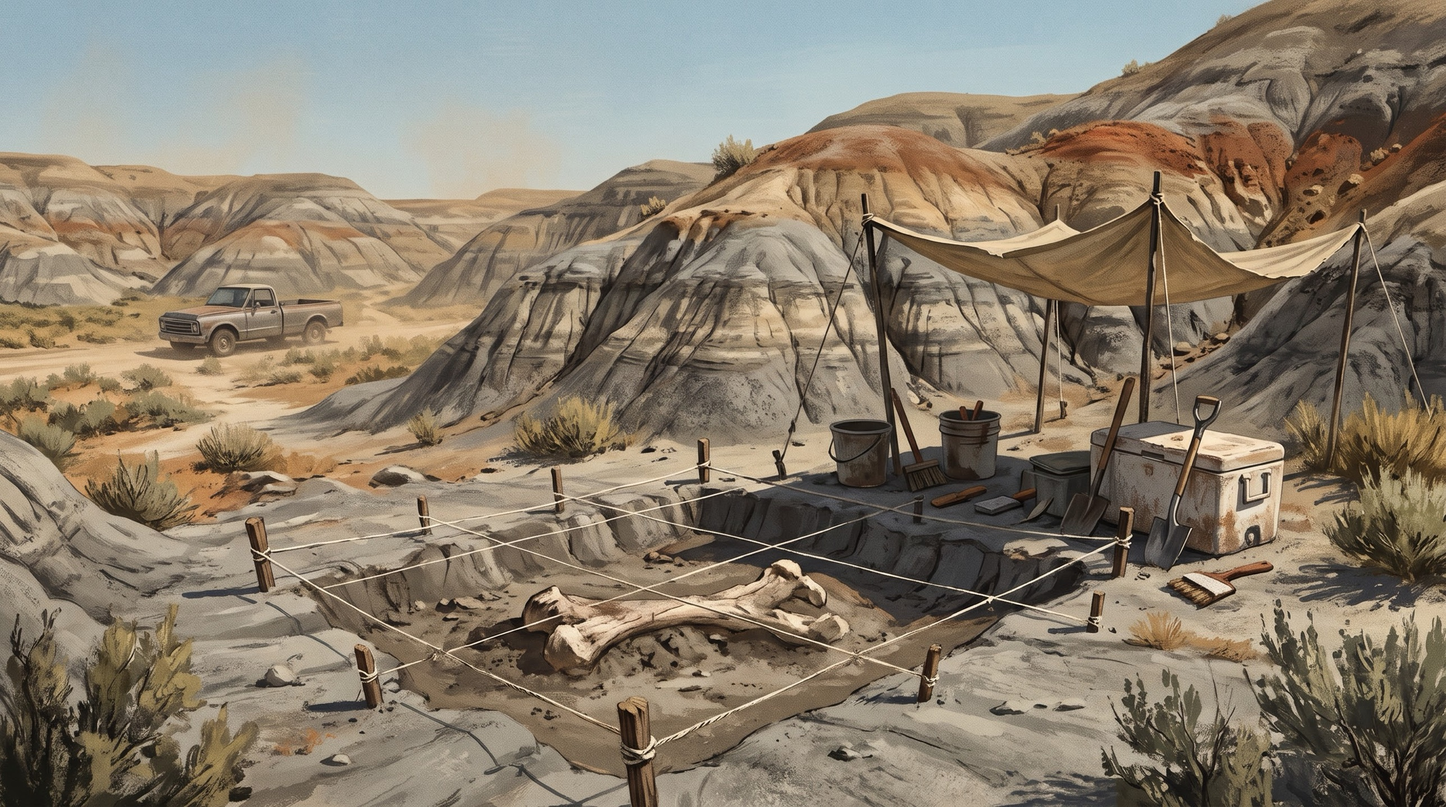
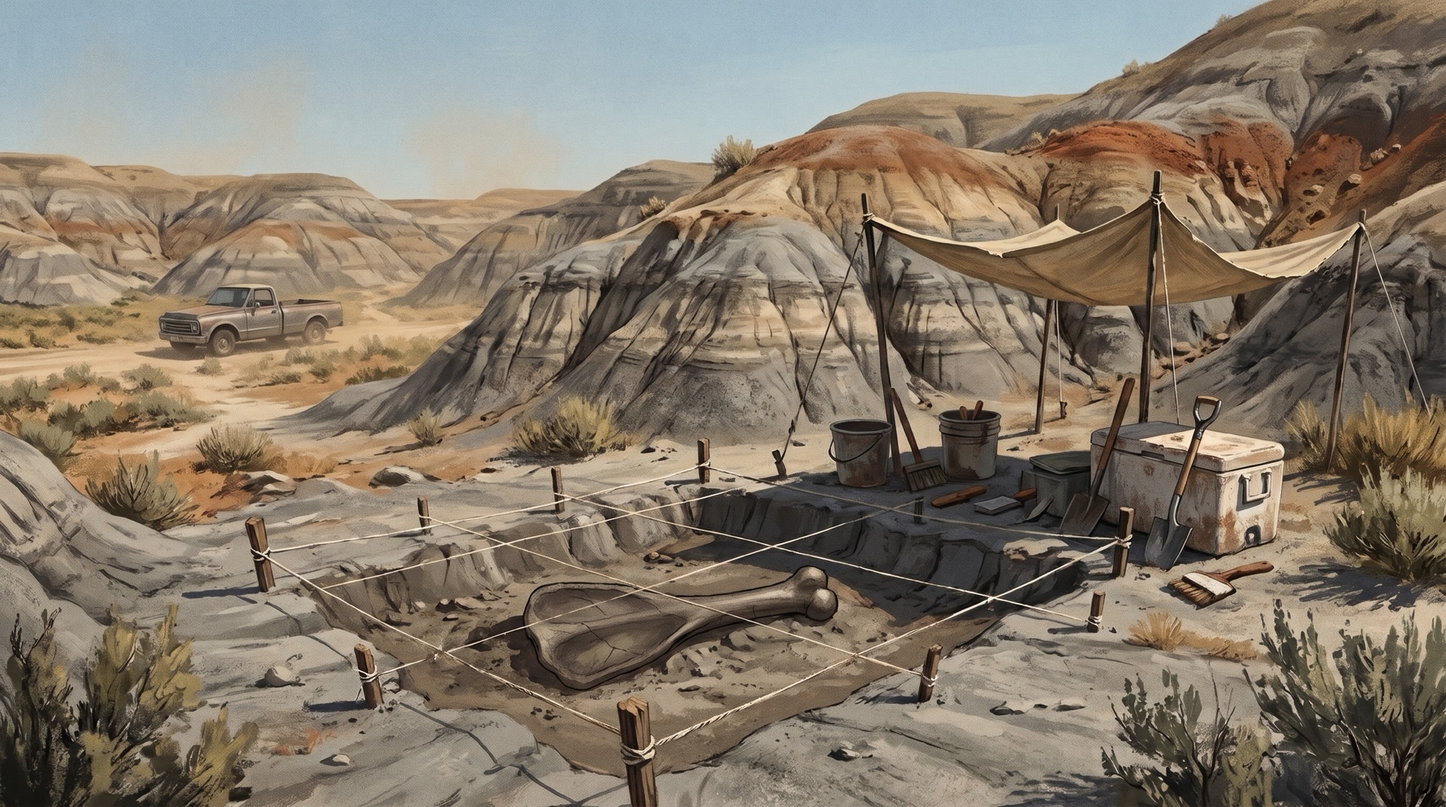
Part 2: fixed assets P5/P6/P8; dig scene moved to late autumn
Claude-Session: https://claude.ai/code/session_01NtES8fcQpSP9FW8DWb2y14

diff --git a/videos/dino-part2/shotlist/shotlist.md b/videos/dino-part2/shotlist/shotlist.md
@@ -1,6 +1,6 @@
 # شاتلیست STILLCUT · فصل ۱ قسمت ۲ (script-en-v7)
 
-**163 قاب · حدود 14:19.1** · CROP 62 · NEW 50 · TEXT 18 · OLD 17 · EDIT 11 · REUSE 5
+**163 قاب · حدود 14:22.1** · CROP 62 · NEW 50 · TEXT 18 · OLD 17 · EDIT 11 · REUSE 5
 
 > ستون **وضعیت** از دفتر وضعیت (ledger.md) میآید و در پرامپتها خودکار به جمله تبدیل میشود. W=scar-R یعنی جای زخم روی ساعد **راست**، بدون باند.
 
@@ -333,18 +333,18 @@
 
 ### ۸ · Sixty-Six Million Years Later
 - **#156** · 13:42.3 · `NEW·M` 🆕 — کارت NOW · DAY 76 MISSING · بدلندز داکوتا (مادر) · _رفرنس: @dig-ND_
-  > North Dakota. Your dad's old dig site. A hot afternoon.
-- **#157** · 13:46.5 · `NEW` 🆕 — پیرزن زانو زده، برس روی استخوان · _رفرنس: @old-woman · @dig-ND · @bone_
+  > North Dakota. Your dad's old dig site. A cold, bright afternoon. The last dig of the season.
+- **#157** · 13:49.4 · `NEW` 🆕 — پیرزن زانو زده، برس روی استخوان · _رفرنس: @old-woman · @dig-ND · @bone_
   > The old woman from the museum kneels in the dirt and brushes the dust off the shoulder blade of a duck-billed dinosaur.
-- **#158** · 13:55.7 · `CROP←#157` — کلوز دست پیرزن ایستاده
+- **#158** · 13:58.6 · `CROP←#157` — کلوز دست پیرزن ایستاده
   > She stops.
-- **#159** · 13:57.5 · `NEW` 🆕 — کلوز استخوان فسیلی با خطها · _رفرنس: @bone(fossil)_
+- **#159** · 14:00.4 · `NEW` 🆕 — کلوز استخوان فسیلی با خطها · _رفرنس: @bone(fossil)_
   > There are marks on the bone. Not teeth marks. Too straight. Too deep.
-- **#160** · 14:02.9 · `CROP←#157` — برس روی سنگ
+- **#160** · 14:05.8 · `CROP←#157` — برس روی سنگ
   > She brushes again.
-- **#161** · 14:04.7 · `CROP←#159` — کلوز حروف M O M روی فسیل (حروف در تدوین)
+- **#161** · 14:07.6 · `CROP←#159` — کلوز حروف M O M روی فسیل (حروف در تدوین)
   > They're not scratches. They're letters.
-- **#162** · 14:06.8 · `CROP←#157` — صورت پیرزن، دست روی دهان
+- **#162** · 14:09.7 · `CROP←#157` — صورت پیرزن، دست روی دهان
   > (pause) If you could leave one message for 66 million years… what would you write on the bone? Tell me in the comments.
-- **#163** · 14:17.3 · `TEXT` — کارت پایانی
+- **#163** · 14:20.3 · `TEXT` — کارت پایانی
   > Stay small. Stay alive.

diff --git a/videos/dino-part2/ledger.md b/videos/dino-part2/ledger.md
@@ -16,7 +16,7 @@
 | 4 | day 52 after | tunnel | carves I SURVIVED into the bone shovel with a sharp stone (3 nights) | fingers bleed | grubs | watches | same | fire |
 | 5 | ~day 55 after, **dawn** (reptiles slow in the cold) | riverbank | buries the bone deep under the clay at the water's edge; the crocodile snaps, the champsosaur is nearby | — | — | warns (squeak) | — | moon behind smoke, dark; ice at the edges |
 | 6 | day 60 after (70) | tunnel entrance | — | — | grubs | gone 2 nights, returns with a female | colder; tunnel not built for winter | grey |
-| 7 NOW | 70 missing (= day 60 after), summer | North Dakota, the dad's old dig site | old paleontologist (dad's former colleague) finds letters on the bone | — | — | — | — | hot sun |
+| 7 NOW | 76 missing (= day 66 after), late autumn (street trees bare at day 50; last dig of the season) | North Dakota, the dad's old dig site | old paleontologist (dad's former colleague) finds letters on the bone | — | — | — | — | cold bright sun, long shadows |
 
 **Rules to keep:**
 - From Part 1: "Dinosaurs left: zero" by day 40 → in Part 2 dinosaurs appear **only in memories of the first weeks**.

diff --git a/videos/dino-part2/script-fa-v7.md b/videos/dino-part2/script-fa-v7.md
@@ -192,7 +192,7 @@ MOM. I SURVIVED. (مامان. زنده موندم.)
 
 ## ۸ · ۶۶ میلیون سال بعد
 **اکنون · روز ۷۶ گمشدن**
-داکوتای شمالی. محل حفاری قدیمی بابات. یه بعدازظهر داغ.
+داکوتای شمالی. محل حفاری قدیمی بابات. یه بعدازظهر سرد و آفتابی. آخرین حفاری فصل.
 پیرزنِ موزه توی خاک زانو زده و گرد و خاک رو از روی استخون کتف یه دایناسور اردکنوک پاک میکنه.
 دستش میایسته.
 روی استخون علامتهایی هست. جای دندون نیست. زیادی صافه. زیادی عمیقه.

diff --git a/videos/dino-part2/script-en-v7.md b/videos/dino-part2/script-en-v7.md
@@ -209,7 +209,7 @@ You stop. And you add:
 ## 8 · Sixty-Six Million Years Later
 
 [NOW · DAY 76 MISSING]
-North Dakota. Your dad's old dig site. A hot afternoon.
+North Dakota. Your dad's old dig site. A cold, bright afternoon. The last dig of the season.
 The old woman from the museum kneels in the dirt and brushes the dust off the shoulder blade of a duck-billed dinosaur.
 She stops.
 There are marks on the bone. Not teeth marks. Too straight. Too deep.
